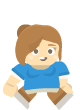
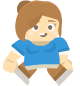
added player movement

diff --git a/build/app.js b/build/app.js
@@ -44,14 +44,14 @@ class Canvas {
 }
 ;
 class Game {
-    constructor(canvas, player) {
+    constructor(canvas) {
         this.draw = () => {
             this.canvas.clear();
             this.house.draw();
             window.requestAnimationFrame(this.draw);
         };
         this.canvas = canvas;
-        this.player = player;
+        this.player = new Player("./Assets/Female/Poses/female_slide.png", this.canvas, 5, 100, 100, 100, 100, this.canvas.getCenter().X, this.canvas.getCenter().Y, 200, 200);
         this.park = new Park("./assets/Backgrounds/park.jpg", this.canvas, this.player);
         this.hospital = new Hospital("./assets/Backgrounds/hospital.jpg", this.canvas, this.player);
         this.house = new House("./assets/Backgrounds/House.png", this.canvas, this.player);
@@ -64,18 +64,25 @@ class Game {
 ;
 window.addEventListener("load", init);
 function init() {
-    const LudosMundi = new Game(new Canvas(document.getElementById("canvas")), new Player("./Assets/Female/Poses/female_slide.png", 5, 100, 100, 100, 100));
+    const LudosMundi = new Game(new Canvas(document.getElementById("canvas")));
     window.requestAnimationFrame(LudosMundi.draw);
 }
 class Player {
-    constructor(src, speed, health, hunger, energy, mood) {
+    constructor(src, canvas, speed, health, hunger, energy, mood, xPos, yPos, width, height) {
         this.keyboardListener = new KeyboardHelper(false, false, false, false);
+        window.addEventListener("keydown", (event) => this.keyboardListener.keyDownHandler(event));
+        window.addEventListener("keyup", (event) => this.keyboardListener.keyUpHandler(event));
         this.src = src;
+        this.canvas = canvas;
         this.speed = speed;
         this.health = health;
         this.hunger = hunger;
         this.energy = energy;
         this.mood = mood;
+        this.xPos = xPos;
+        this.yPos = yPos;
+        this.width = width;
+        this.height = height;
     }
     ;
     move() {
@@ -91,6 +98,18 @@ class Player {
                 this.yPos -= this.speed;
             else if (this.keyboardListener.downPressed)
                 this.yPos += this.speed;
+            if (this.xPos < 0) {
+                this.xPos = 0;
+            }
+            if (this.xPos + this.width > this.canvas.getWidth()) {
+                this.xPos = this.canvas.getWidth() - this.width;
+            }
+            if (this.yPos + this.height > this.canvas.getHeight()) {
+                this.yPos = this.canvas.getHeight() - this.height;
+            }
+            if (this.yPos < 0) {
+                this.yPos = 0;
+            }
         }
     }
     ;
@@ -113,6 +132,18 @@ class Player {
         return this.mood;
     }
     ;
+    getX() {
+        return this.xPos;
+    }
+    getY() {
+        return this.yPos;
+    }
+    getWidth() {
+        return this.width;
+    }
+    getHeight() {
+        return this.height;
+    }
 }
 ;
 class KeyboardHelper {
@@ -123,7 +154,7 @@ class KeyboardHelper {
         this.downPressed = downPressed;
     }
     ;
-    keydownHandler(event) {
+    keyDownHandler(event) {
         switch (event.keyCode) {
             case 37:
             case 65:
@@ -224,6 +255,8 @@ class House extends BaseView {
             this.canvas.drawBarToCanvas(this.canvas.getWidth() * 0.05, this.canvas.getHeight() * 0.1, 100, this.player.getHealth(), 20, "black", "red");
             this.canvas.drawBarToCanvas(this.canvas.getWidth() * 0.05, this.canvas.getHeight() * 0.15, 100, this.player.getHealth(), 20, "black", "orange");
             this.canvas.drawBarToCanvas(this.canvas.getWidth() * 0.05, this.canvas.getHeight() * 0.2, 100, this.player.getHealth(), 20, "black", "red");
+            this.player.move();
+            this.canvas.drawImageToCanvas("./Assets/Female/Poses/female_walk1.png", this.player.getX(), this.player.getY(), this.player.getWidth(), this.player.getHeight());
         };
     }
     ;

diff --git a/src/Player.ts b/src/Player.ts
@@ -1,5 +1,6 @@
 class Player {
     src : string;
+    private canvas : Canvas;
     private keyboardListener : KeyboardHelper;
     private speed : number;
     private health : number;
@@ -8,23 +9,37 @@ class Player {
     private mood : number;
     private xPos : number;
     private yPos : number;
+    private width : number;
+    private height : number;
 
     public constructor (src : string,
+                        canvas : Canvas,
                         speed : number,
                         health : number,
                         hunger : number,
                         energy : number,
-                        mood : number) {
+                        mood : number,
+                        xPos : number,
+                        yPos : number,
+                        width : number,
+                        height : number) {
         this.keyboardListener = new KeyboardHelper(false,
                                                     false,
                                                     false,
                                                     false);
+        window.addEventListener("keydown", (event) => this.keyboardListener.keyDownHandler(event));
+        window.addEventListener("keyup", (event) => this.keyboardListener.keyUpHandler(event));
         this.src = src;
+        this.canvas = canvas;
         this.speed = speed;
         this.health = health;
         this.hunger = hunger;
         this.energy = energy;
         this.mood = mood;
+        this.xPos = xPos;
+        this.yPos = yPos;
+        this.width = width;
+        this.height = height;
     };
 
     public move () {
@@ -41,6 +56,22 @@ class Player {
                     this.yPos -= this.speed;
                 else if (this.keyboardListener.downPressed)
                     this.yPos += this.speed;
+                //Left
+                if (this.xPos < 0) {
+                    this.xPos = 0
+                }
+                //Right
+                if (this.xPos + this.width > this.canvas.getWidth()) {
+                    this.xPos = this.canvas.getWidth() - this.width;
+                }
+                //Down
+                if (this.yPos + this.height > this.canvas.getHeight()) {
+                    this.yPos = this.canvas.getHeight() - this.height;
+                }
+                //Up
+                if (this.yPos < 0) {
+                    this.yPos = 0
+                }
             }
     };
 
@@ -79,4 +110,20 @@ class Player {
     public getMood () : number {
         return this.mood;
     };
+
+    public getX () : number {
+        return this.xPos
+    }
+
+    public getY () : number {
+        return this.yPos
+    }
+
+    public getWidth () : number {
+        return this.width;
+    }
+
+    public getHeight () : number {
+        return this.height;
+    }
 };

diff --git a/src/Game.ts b/src/Game.ts
@@ -8,10 +8,19 @@ class Game {
     private store : Store;
     private restaurant : Restaurant;
 
-    public constructor (canvas : Canvas,
-                        player : Player) {
+    public constructor (canvas : Canvas) {
         this.canvas = canvas;
-        this.player = player;
+        this.player = new Player(   "./Assets/Female/Poses/female_slide.png",
+                                    this.canvas,
+                                    5,
+                                    100,
+                                    100,
+                                    100,
+                                    100,
+                                    this.canvas.getCenter().X,
+                                    this.canvas.getCenter().Y,
+                                    200,
+                                    200);
         this.park = new Park("./assets/Backgrounds/park.jpg",
                             this.canvas,
                             this.player);
@@ -42,13 +51,6 @@ class Game {
 
 window.addEventListener("load", init);
 function init () : void {
-    const LudosMundi = new Game(new Canvas(<HTMLCanvasElement>document.getElementById("canvas")),
-                                new Player("./Assets/Female/Poses/female_slide.png",
-                                            5,
-                                            100,
-                                            100,
-                                            100,
-                                            100));
-                                
-    window.requestAnimationFrame(LudosMundi.draw)
+    const LudosMundi = new Game(new Canvas(<HTMLCanvasElement>document.getElementById("canvas")));                                                            
+    window.requestAnimationFrame(LudosMundi.draw);
 }

diff --git a/src/Views/House.ts b/src/Views/House.ts
@@ -7,6 +7,7 @@ class House extends BaseView {
     };
 
     public draw = () => {
+        
         this.canvas.drawImageToCanvas(  this.src,
                                         0,
                                         0,
@@ -36,5 +37,12 @@ class House extends BaseView {
                                     100,
                                     this.player.getHealth(),
                                     20, "black", "red");
+        this.player.move();
+        this.canvas.drawImageToCanvas("./Assets/Female/Poses/female_walk1.png",
+                                        this.player.getX(),
+                                        this.player.getY(),
+                                        this.player.getWidth(),
+                                        this.player.getHeight());
+                                                                
     };
 };

diff --git a/src/Helpers/KeyboardHelper.ts b/src/Helpers/KeyboardHelper.ts
@@ -15,7 +15,7 @@ class KeyboardHelper {
     };
 
     //Handlers for the keyboard input
-    public keydownHandler (event: KeyboardEvent) : void {
+    public keyDownHandler (event: KeyboardEvent) : void {
         switch (event.keyCode) {
             // Left arrow
             case 37:
